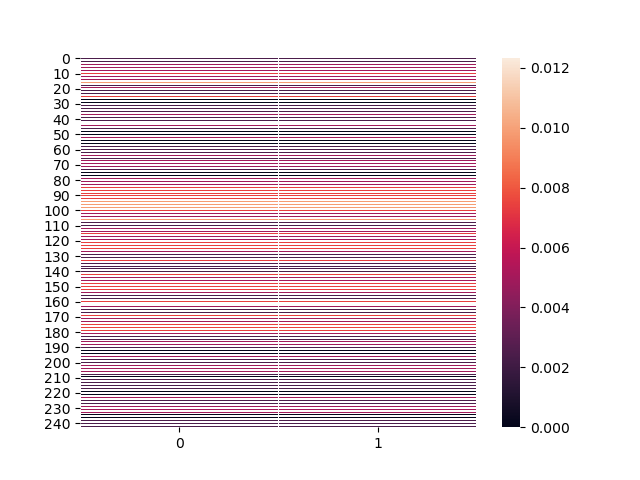
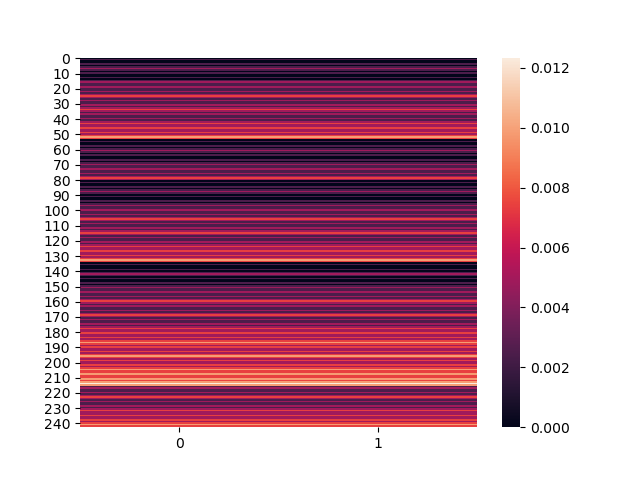
bug fix about propoertion_of_dataset

diff --git a/ldm_inductive.py b/ldm_inductive.py
@@ -198,24 +198,24 @@ def random_uniform(X_train, y_train, num_entries):
     
     return shuffled_X, shuffled_y
 
-def computeLdm(model, dataset, holdout_set_percentage, num_datasets):
+def computeLdm(model, dataset, holdout_set_percentage, num_datasets, proportion_of_dataset):
     X_train, X_test, y_train, y_test = train_test_split(dataset.data, dataset.target, test_size = holdout_set_percentage)
 
-    matrix = getLdm(model, X_train, X_test, y_train, [0, 1, 2], num_datasets)
+    matrix = getLdm(model, X_train, X_test, y_train, [0, 1, 2], num_datasets,proportion_of_dataset)
 
     return matrix
 
-def computeSparseLdm(model, dataset, holdout_set_percentage, num_datasets):
+def computeSparseLdm(model, dataset, holdout_set_percentage, num_datasets, proportion_of_dataset):
     X_train, X_test, y_train, y_test = train_test_split(dataset.data, dataset.target, test_size = holdout_set_percentage)
 
-    matrix = getSparseLdm(model, X_train, X_test, y_train, [0, 1, 2], num_datasets)
+    matrix = getSparseLdm(model, X_train, X_test, y_train, [0, 1, 2], num_datasets, proportion_of_dataset)
 
     return matrix
 
 
-def computeEntropy(model, dataset, holdout_set_percentage, num_datasets):
+def computeEntropy(model, dataset, holdout_set_percentage, num_datasets, proportion_of_dataset):
 
-    matrix = computeLdm(model, dataset, holdout_set_percentage, num_datasets)
+    matrix = computeLdm(model, dataset, holdout_set_percentage, num_datasets, proportion_of_dataset)
 
     entropy_list = []
 
@@ -227,13 +227,13 @@ def computeEntropy(model, dataset, holdout_set_percentage, num_datasets):
 
 
 
-def computePD(model, dataset, holdout_set_percentage, num_datasets):
-    LDM = computeLdm(model, dataset, holdout_set_percentage, num_datasets)
+def computePD(model, dataset, holdout_set_percentage, num_datasets, proportion_of_dataset):
+    LDM = computeLdm(model, dataset, holdout_set_percentage, num_datasets, proportion_of_dataset)
     return np.mean(LDM, axis = 0)
 
 
-def computeSparsePD(model, dataset, holdout_set_percentage, num_datasets):
-    LDM = computeSparseLdm(model, dataset, holdout_set_percentage, num_datasets)
+def computeSparsePD(model, dataset, holdout_set_percentage, num_datasets, proportion_of_dataset):
+    LDM = computeSparseLdm(model, dataset, holdout_set_percentage, num_datasets, proportion_of_dataset)
     return np.mean(LDM, axis = 0)
 
 

diff --git a/ldm_inductive_test.py b/ldm_inductive_test.py
@@ -54,7 +54,7 @@ num_datasets = 5
 # fig.show()
 
 
-AdaboostLDM = ldm_inductive.computeSparseLdm(adaboostClassifier, dataset,holdout_set_percentage, 2)
+AdaboostLDM = ldm_inductive.computeSparseLdm(adaboostClassifier, dataset,holdout_set_percentage, 2, 0.3)
 ldm_inductive.plotHeatMap(AdaboostLDM)
 
 
